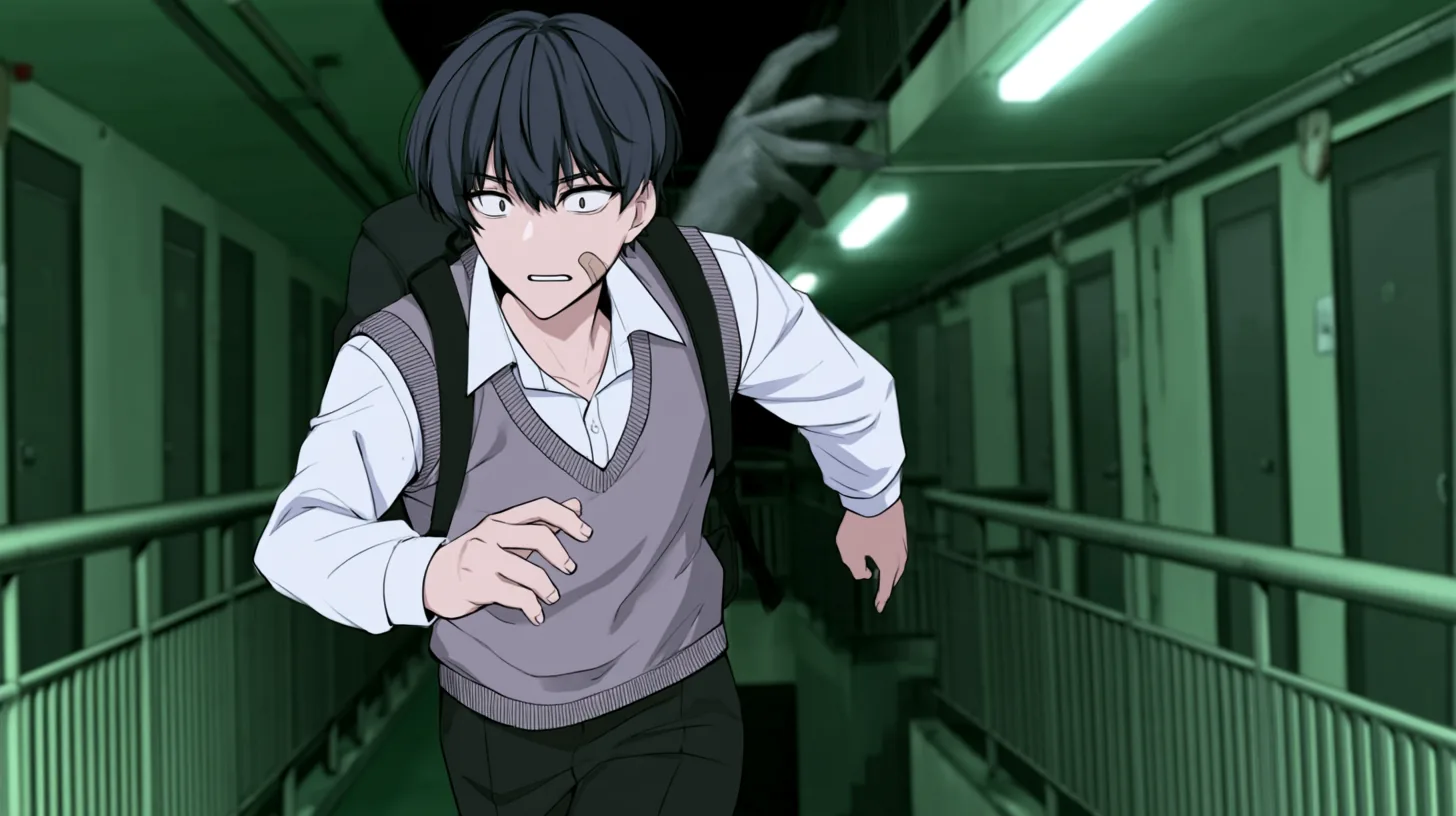
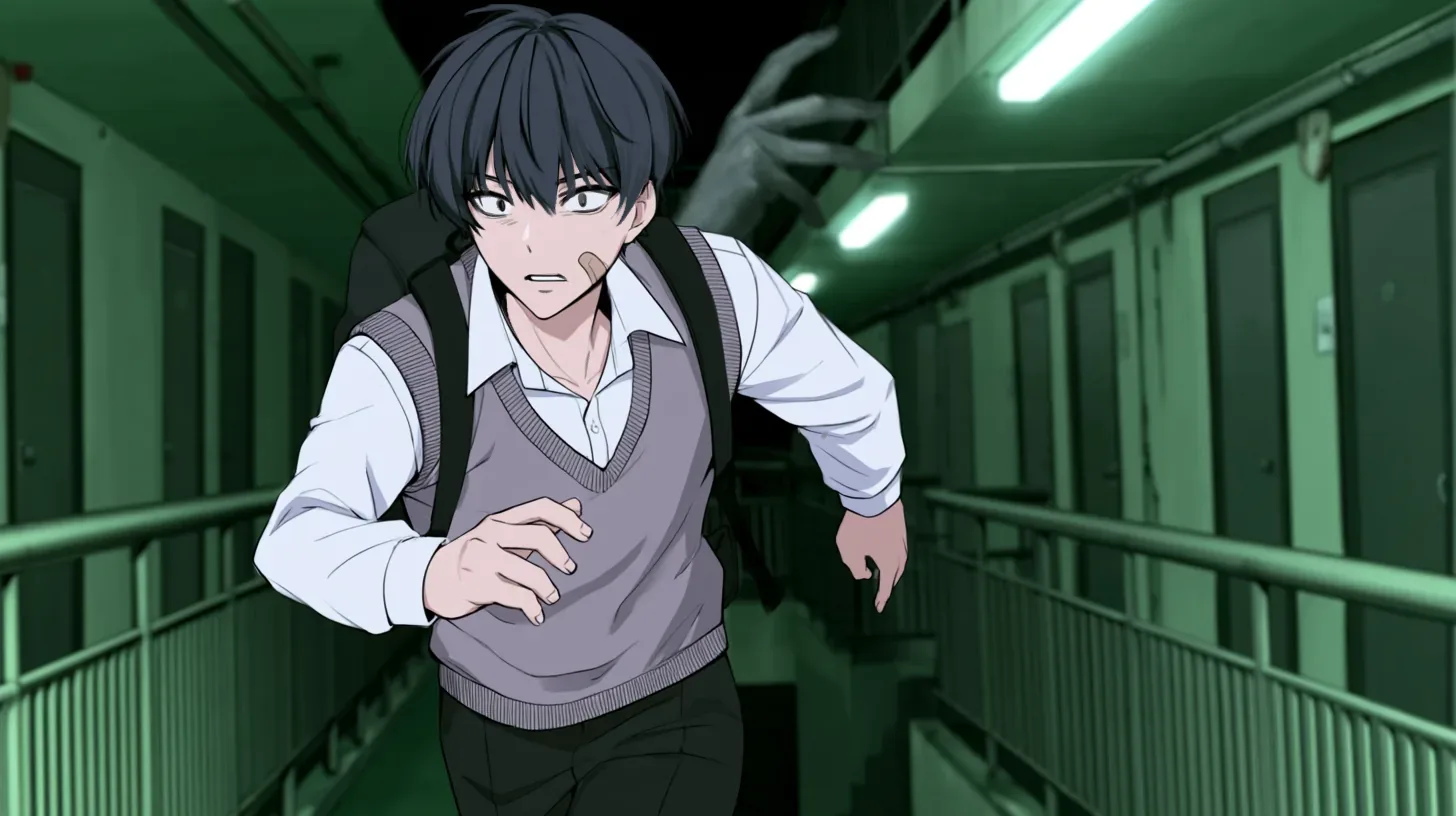
feat(cutscene): 과거편 1컷·5컷을 새 그림으로 바꾼다
- Midjourney PNG를 1456×816 webp(q82)로 변환해 cutscene-day-1·5를 대체한다
- 같은 파일을 새 그림으로 바꿨으니 경로에 ?v=3 (서비스 워커 캐시 우선)

diff --git a/src/lib/assets.ts b/src/lib/assets.ts
@@ -85,11 +85,11 @@ export const ASSETS = {
     /** 라온생명과학연구소 공통 심볼. 출입증·앰플·컴퓨터 화면에서 같은 도형을 쓴다. */
     raonLogo: "/assets/images/ui-raon-logo.svg?v=2",
     /** 라디오 반전에서 번지는 '그날' 7연작 (분기점 과거편, content/cutscenes.yaml의 radio-blackout). */
-    cutsceneDay1: "/assets/images/cutscene-day-1.webp?v=2",
+    cutsceneDay1: "/assets/images/cutscene-day-1.webp?v=3",
     cutsceneDay2: "/assets/images/cutscene-day-2.webp?v=2",
     cutsceneDay3: "/assets/images/cutscene-day-3.webp?v=2",
     cutsceneDay4: "/assets/images/cutscene-day-4.webp?v=2",
-    cutsceneDay5: "/assets/images/cutscene-day-5.webp?v=2",
+    cutsceneDay5: "/assets/images/cutscene-day-5.webp?v=3",
     cutsceneDay6: "/assets/images/cutscene-day-6.webp?v=2",
     cutsceneDay7: "/assets/images/cutscene-day-7.webp?v=2",
     /** 생존자 방송 웹툰 10칸 (3페이지, content/cutscenes.yaml의 survivor-broadcast). */
